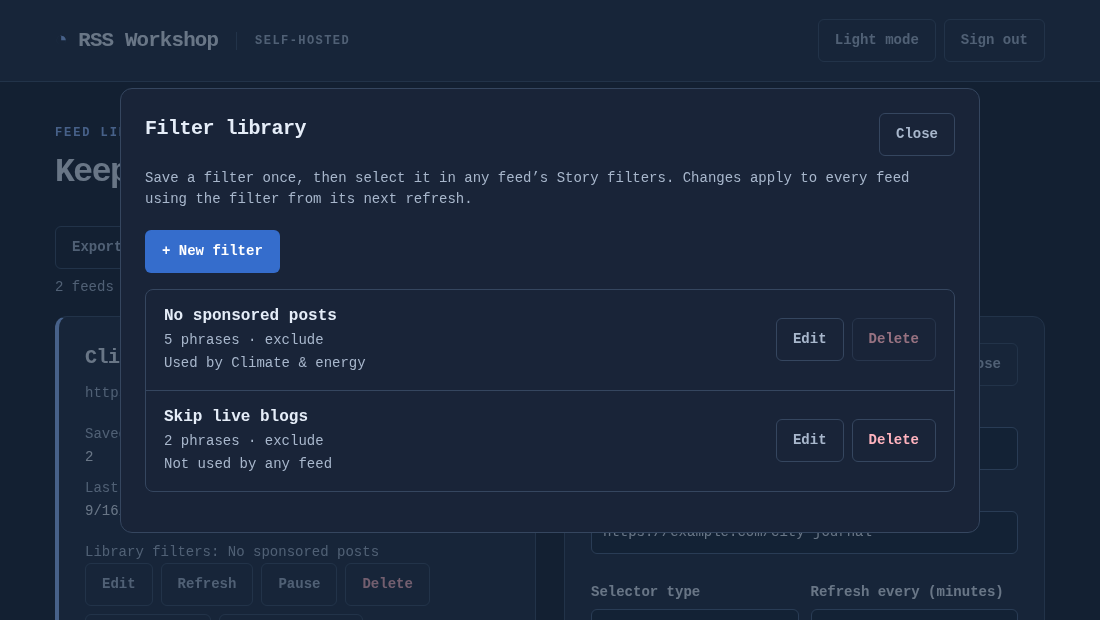
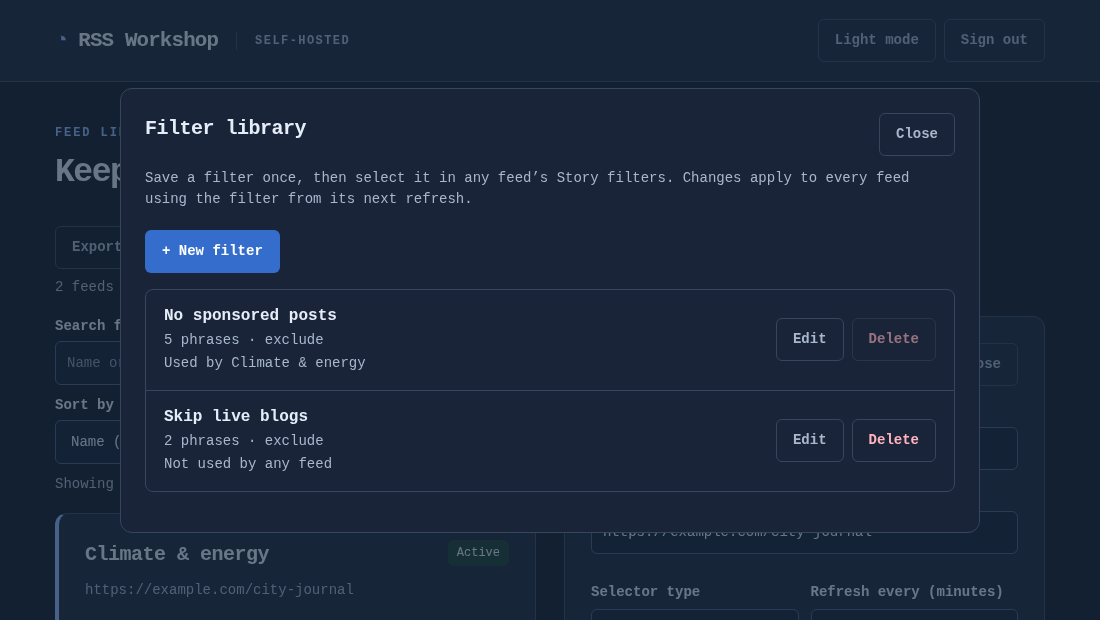
Recapture the screenshots that show the library
The dashboard now has a toolbar above the cards, a Quiet badge and two
more times on each card, so the README image and the captures that show
the library behind a dialog or below the editor were out of date. The
documentation fixture marks its second feed's output as unchanged for
23 days, so the dashboard image shows a quiet feed.

Recaptured with RSS_UI_DOCS=1 make browser-test from the synthetic
fixture: fictional stories, example.com sources and no reader links.
The visual selector and full article content captures show nothing of
the library and are unchanged.

Changed region(s): [[0.0309, 0.521, 0.1236, 0.8274], [0.0618, 0.8581, 0.3709, 0.9806]]

diff --git a/internal/web/documentation_ui_test.go b/internal/web/documentation_ui_test.go
@@ -2,6 +2,7 @@ package web
 
 import (
 	"context"
+	"fmt"
 	"net/http/httptest"
 	"os"
 	"strings"
@@ -80,6 +81,15 @@ func TestBrowserUIDocumentation(t *testing.T) {
 				t.Fatal(err)
 			}
 		}
+		// The second feed shows a quiet one: still refreshing, but with
+		// nothing new published for a few weeks.
+		if i == 1 {
+			for _, query := range []string{"UPDATE feeds SET last_changed=%d WHERE id='%s'", "UPDATE items SET last_changed=%d WHERE feed_id='%s'"} {
+				if _, err := s.DB.Exec(fmt.Sprintf(query, time.Now().Add(-23*24*time.Hour).Unix(), id)); err != nil {
+					t.Fatal(err)
+				}
+			}
+		}
 	}
 	app := &App{Store: s, Scheduler: jobs, Auth: a, Version: "0.2 preview"}
 	server := httptest.NewServer(app.Handler())
@@ -101,7 +111,8 @@ func TestBrowserUIDocumentation(t *testing.T) {
 	}
 	must(chromedp.EmulateViewport(1440, 1100), chromedp.Navigate(server.URL), chromedp.WaitVisible("#login-form"),
 		chromedp.SendKeys("#password", "documentation-fixture-only"), chromedp.Click("#login-form button"), chromedp.WaitVisible(".feed-card"),
-		chromedp.Evaluate(`if(document.documentElement.dataset.theme!=='dark')document.querySelector('#theme-toggle').click()`, nil))
+		chromedp.Evaluate(`if(document.documentElement.dataset.theme!=='dark')document.querySelector('#theme-toggle').click()`, nil),
+		chromedp.Poll(`document.querySelectorAll('.feed-card .badge')[1]?.textContent==='Quiet'`, nil))
 	captureTrial(t, tab, "docs-dashboard")
 	must(chromedp.Evaluate(`document.querySelectorAll('.feed-card')[0].querySelector('button').click()`, nil),
 		chromedp.Click("#visual-button"), chromedp.WaitVisible("#selector-frame"), chromedp.Poll(`document.querySelector('#selector-matches').dataset.items==='3'`, nil),
